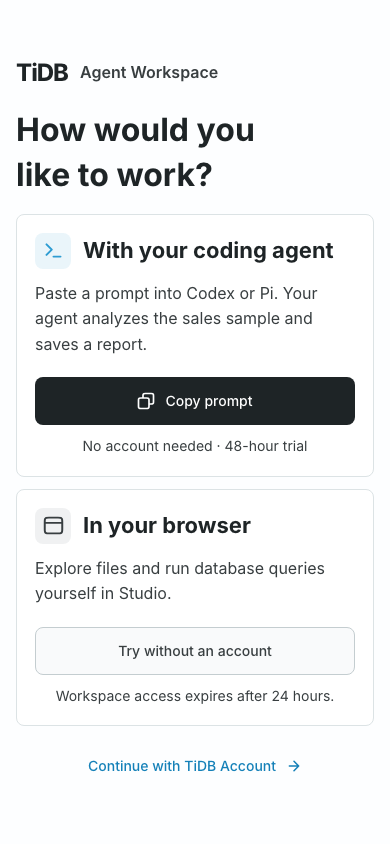
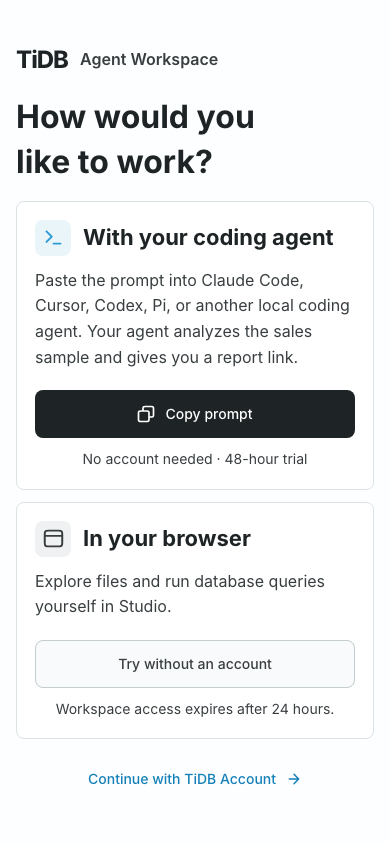
fix(studio): offer the trial to local coding agents

diff --git a/src/features/auth/CopyAgentTrial.tsx b/src/features/auth/CopyAgentTrial.tsx
@@ -32,7 +32,7 @@ export function CopyAgentTrial() {
       </Button>
       {result === 'manual' && (
         <Textarea
-          label="Select and copy the prompt into Codex or Pi"
+          label="Select and copy the prompt for your coding agent"
           readOnly
           autosize
           value={trialInstruction}
@@ -41,7 +41,7 @@ export function CopyAgentTrial() {
       )}
       <Text size="sm" ta="center" role="status">
         {result === 'copied'
-          ? 'Copied. Paste into Codex or Pi in your project.'
+          ? 'Copied. Paste it into your project chat.'
           : 'No account needed · 48-hour trial'}
       </Text>
     </Stack>

diff --git a/src/features/auth/SignInChoices.tsx b/src/features/auth/SignInChoices.tsx
@@ -52,8 +52,8 @@ export function SignInChoices({
             </div>
           </Group>
           <Text component="p">
-            Paste a prompt into Codex or Pi. Your agent analyzes the sales sample and saves a
-            report.
+            Paste the prompt into Claude Code, Cursor, Codex, Pi, or another local coding agent.
+            Your agent analyzes the sales sample and gives you a report link.
           </Text>
           <CopyAgentTrial />
         </Paper>

diff --git a/console/public/skills/drive9-workspace/install.py b/console/public/skills/drive9-workspace/install.py
@@ -96,7 +96,7 @@ def install_assets(skills, runtime):
 
 
 # fmt: off
[2 lines of base64/hex data omitted]
 # fmt: on
 
 if __name__ == "__main__":

diff --git a/console/public/skills/drive9-workspace/SKILL.md b/console/public/skills/drive9-workspace/SKILL.md
@@ -1,6 +1,6 @@
 ---
 name: drive9-workspace
-description: Start or continue a free Drive9 public US sales report in this project, including a previous report created by Codex or Pi. Also use for explicit file and database tasks with an existing Workspace Key.
+description: Start or continue a free Drive9 public US sales report in this project, including a report created by another local coding agent. Also use for explicit file and database tasks with an existing Workspace Key.
 ---
 
 # Drive9 Workspace
@@ -9,9 +9,9 @@ description: Start or continue a free Drive9 public US sales report in this proj
 
 For the Studio free-trial prompt or a request to continue its sales report, use the project you are already in. The public sample requires no account, Workspace Key or payment method. Use only the public US sales fixture. Previous chat history is optional.
 
-1. Locate the installed helper at `~/.agents/skills/drive9-workspace/report.py` and its isolated Python under `~/.drive9/report-runtime/` (`bin/python` on macOS/Linux or `Scripts/python.exe` on Windows). On first use, download [the official installer](https://drive9.ai/studio/skills/drive9-workspace/install.py) over HTTPS to a temporary file. Inspect it and run it with Python 3.10+ in isolated mode (`python3 -I <downloaded-file>`, or `py -3 -I <downloaded-file>` on Windows), respecting the host's normal installation permissions. This installs the same skill for both agents.
+1. Locate the installed helper at `~/.agents/skills/drive9-workspace/report.py` and its isolated Python under `~/.drive9/report-runtime/` (`bin/python` on macOS/Linux or `Scripts/python.exe` on Windows). On first use, download [the official installer](https://drive9.ai/studio/skills/drive9-workspace/install.py) over HTTPS to a temporary file. Inspect it and run it with Python 3.10+ in isolated mode (`python3 -I <downloaded-file>`, or `py -3 -I <downloaded-file>` on Windows), respecting the host's normal installation permissions. Agents that do not discover this skill automatically can follow the linked instructions directly and invoke the same helper by its absolute path.
 2. Invoke that isolated Python with `-I`, the absolute helper path and `start` in the current project. To add the leading state's top product to the same report, use `products`. Reuse the same directory or pass `--project` with its path. The helper owns the OS credential, verifies the input, computes the totals and reads the saved report back.
-3. Return the actual result, calculation, and a clickable absolute local file link from the JSON `report` field. For `synced`, return the clickable `studioUrl` labeled “View report in Studio” (or “在 Studio 查看报告”), the local Markdown, and the original expiry in the user's timezone. Anyone with that link can read the latest saved version until expiry. After a continuation, return the same link. If an older installed helper reports `synced` without `studioUrl`, update it once with the official installer from step 1 and repeat the same command in the same project. Never invent a URL or present a local-only result as viewable in Studio. After the first report, offer one follow-up they can paste into either agent in this project: “Continue my Drive9 sales report and add the top product in the leading state.” For `local-only`, explain the reported limitation; do not describe the result as remotely saved. Expired and forgotten bindings keep the local Markdown. Access expires 48 hours after registration. The next invocation for this project clears an expired key; `forget` removes it early. Only run `new` if the user explicitly wants a separate trial after expiry or removal.
+3. Return the actual result, calculation, and a clickable absolute local file link from the JSON `report` field. For `synced`, return the clickable `studioUrl` labeled “View report in Studio” (or “在 Studio 查看报告”), the local Markdown, and the original expiry in the user's timezone. Anyone with that link can read the latest saved version until expiry. After a continuation, return the same link. If an older installed helper reports `synced` without `studioUrl`, update it once with the official installer from step 1 and repeat the same command in the same project. Never invent a URL or present a local-only result as viewable in Studio. After the first report, offer one follow-up they can paste into another local coding agent with the same project open: “Follow https://drive9.ai/studio/skills/drive9-workspace/SKILL.md to continue my Drive9 sales report in this project and add the top product in the leading state.” For `local-only`, explain the reported limitation; do not describe the result as remotely saved. Expired and forgotten bindings keep the local Markdown. Access expires 48 hours after registration. The next invocation for this project clears an expired key; `forget` removes it early. Only run `new` if the user explicitly wants a separate trial after expiry or removal.
 
 When the task calls for a private Workspace or spending, explain that a trial grants neither. Keep using the following authenticated API flow for existing customer integrations.
 

diff --git a/docs/api-guide.md b/docs/api-guide.md
@@ -203,4 +203,4 @@ addressable `/resources/{id}/setup-attempts` resource with explicit idempotency;
 Resource deletion may return 202; inspect Location and `deletion.phase`. Acceptance does not
 claim physical erasure and provider-specific unsupported deletion stays explicit.
 
-For an account-free public US sales report in Codex or Pi, choose **With your coding agent → Copy prompt** on the Studio sign-in page and paste it into your project chat. After saving, the agent returns a read-only Studio link and the local Markdown. Open the same link after another agent continues the report in this project. Anyone with the full link can view the latest saved revision until the original trial expires. The local Markdown survives expiry. See [report links](decisions/0053-trial-report-view.md). The local trial and its recovery boundaries are described in [ADR 0052](decisions/0052-anonymous-agent-report.md).
+For an account-free public US sales report, open your project in a local coding agent such as Claude Code, Cursor, Codex, or Pi. Choose **With your coding agent → Copy prompt** in Studio and paste it into your agent’s project chat. The agent needs HTTPS access to the linked instructions and permission to run the report helper locally. A native credential store under the same OS user lets another agent resume the saved report in that project. After saving, the agent returns a read-only Studio link and the local Markdown. Open the same link after another agent continues the report in this project. Anyone with the full link can view the latest saved revision until the original trial expires. The local Markdown survives expiry. See [report links](decisions/0053-trial-report-view.md). The local trial and its recovery boundaries are described in [ADR 0052](decisions/0052-anonymous-agent-report.md).

diff --git a/docs/standards/product-experience.md b/docs/standards/product-experience.md
@@ -82,7 +82,8 @@ cleanup that the service has not implemented.
 
 On the signed-out Studio page, present the two places a person can work. For the agent path,
 name the human action (copy and paste the prompt) and the agent outcome (analyze the sample
-and save a report). Group browser actions with the browser path and distinguish account sign-in
+and save a report). Present agent names as examples. Make the prompt usable from a fresh
+project chat, including tools that open a skill by URL. Group browser actions with the browser path and distinguish account sign-in
 from the two ways to try Studio.
 
 **People and agent onboarding (owner direction, 2026-11-03):** a Guest can explore the US sales
